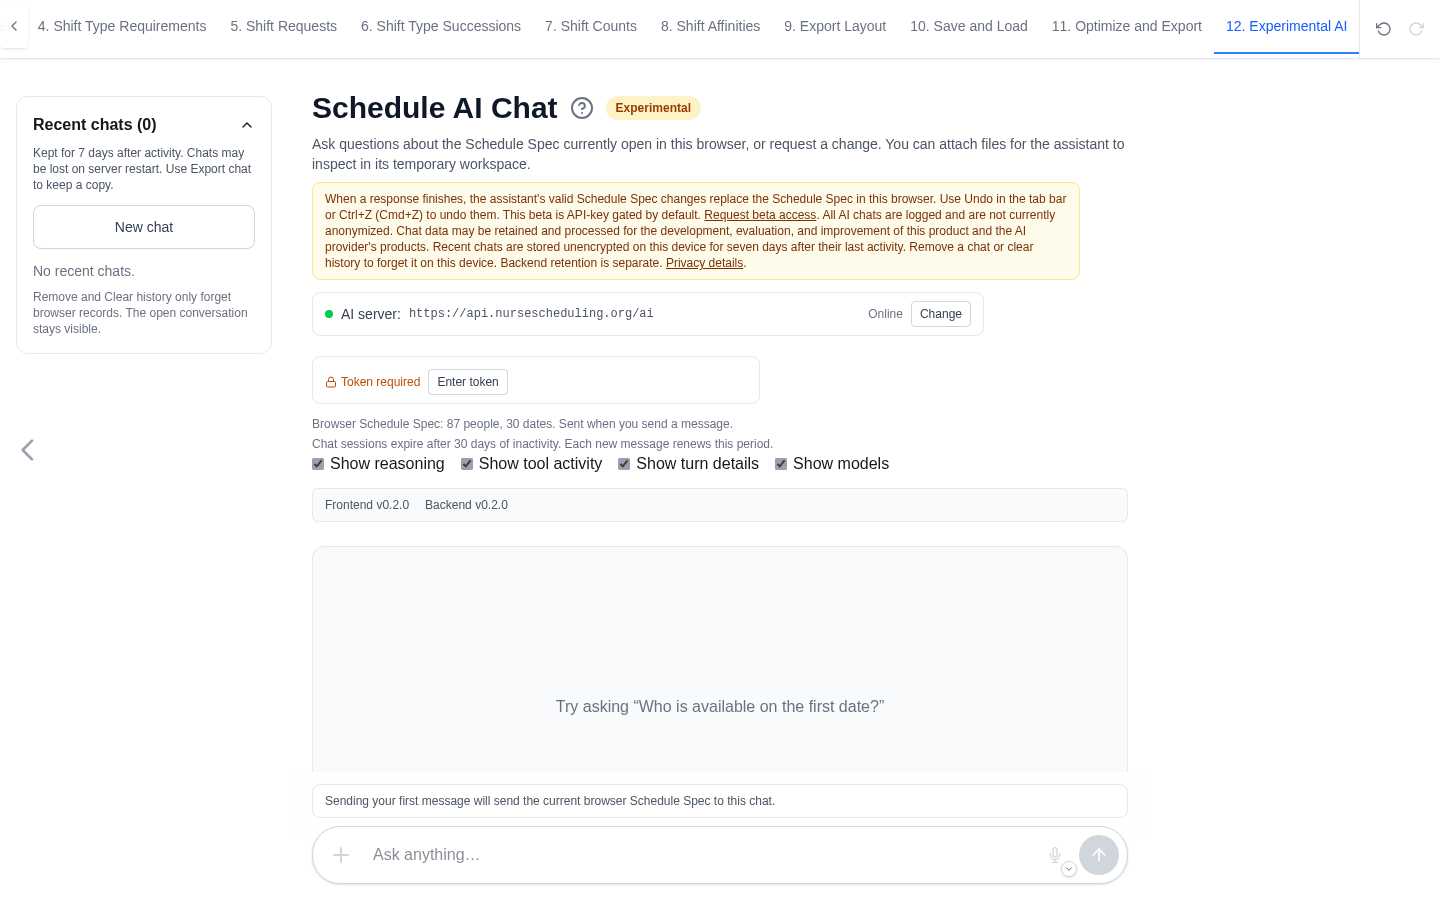
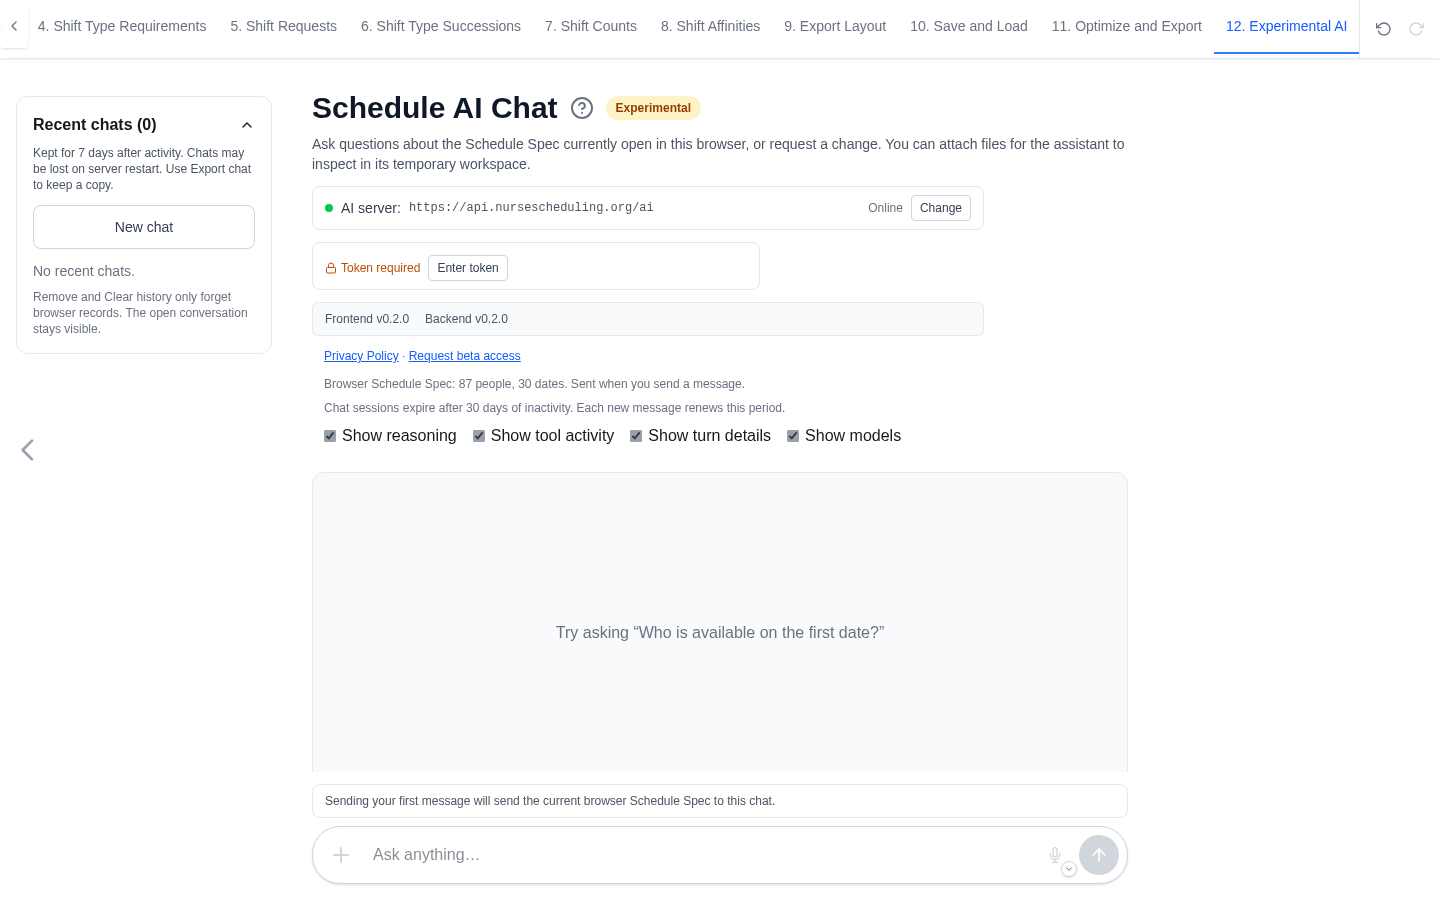
fix(web-frontend): simplify AI chat setup and privacy links
The long warning distracted from server setup and chat controls. Replace it with plain privacy and beta-access links, arrange server and token controls before versions and chat options, and keep versions visible when phone settings are collapsed.

by Codex (gpt-6.1-sol)

diff --git a/web-frontend/src/app/experimental-ai/page.tsx b/web-frontend/src/app/experimental-ai/page.tsx
@@ -968,28 +968,6 @@ export default function ExperimentalAiPage() {
         <p className="text-sm text-gray-600">
           Ask questions about the Schedule Spec currently open in this browser, or request a change. You can attach files for the assistant to inspect in its temporary workspace.
         </p>
-        <p className="mt-2 max-w-3xl rounded-lg border border-amber-200 bg-amber-50 px-3 py-2 text-xs text-amber-900">
-          When a response finishes, the assistant&apos;s valid Schedule Spec changes replace the Schedule Spec in this browser.
-          Use Undo in the tab bar or Ctrl+Z (Cmd+Z) to undo them. This beta is API-key gated by default.{' '}
-          <a
-            className="font-medium underline"
-            href={GITHUB_AI_BETA_ACCESS_URL}
-            target="_blank"
-            rel="noopener noreferrer"
-          >
-            Request beta access
-          </a>
-          . All AI chats are logged and are not currently anonymized. Chat data may be retained and processed for the development, evaluation, and improvement of this product and the AI provider&apos;s products. Recent chats are stored unencrypted on this device for seven days after their last activity. Remove a chat or clear history to forget it on this device. Backend retention is separate.{' '}
-          <a
-            className="font-medium underline"
-            href={GITHUB_PRIVACY_URL}
-            target="_blank"
-            rel="noopener noreferrer"
-          >
-            Privacy details
-          </a>
-          .
-        </p>
         {trimmedHistoryCount > 0 && (
           <p className="mt-2 max-w-3xl rounded-lg border border-amber-200 bg-amber-50 px-3 py-2 text-xs text-amber-900" role="status">
             This conversation is long, so the {trimmedHistoryCount === 1 ? 'oldest message is' : `${trimmedHistoryCount} oldest messages are`}
@@ -1107,7 +1085,7 @@ export default function ExperimentalAiPage() {
           )}
         </div>
         {(authRequired || authToken !== null) && (
-          <div className="mt-3 max-w-md rounded-lg border border-gray-200 bg-white px-3 py-2">
+          <div className="mt-1 max-w-md rounded-lg border border-gray-200 bg-white px-3 py-2">
             <BackendTokenField
               endpoint="AI assistant"
               token={authToken}
@@ -1124,15 +1102,61 @@ export default function ExperimentalAiPage() {
             )}
           </div>
         )}
-        <div className="mt-3">
-          <MobileDetails label="Chat details and settings" openWhen={hasVersionMismatch}>
+        <div role="group" aria-label="AI versions" className={`mt-3 max-w-2xl rounded-md border px-3 py-2 text-xs ${hasVersionMismatch ? 'border-amber-200 bg-amber-50 text-amber-900' : 'border-gray-200 bg-gray-50 text-gray-600'}`}>
+          <div className="flex flex-wrap gap-x-4 gap-y-1">
+            <span>
+              Frontend{' '}
+              <AppVersionText
+                version={CURRENT_APP_VERSION}
+                versionHref={GITHUB_TAGS_URL}
+                versionClassName="hover:text-gray-600"
+                commitClassName="hover:text-gray-600"
+              />
+            </span>
+            <span>
+              Backend{' '}
+              <AppVersionText
+                version={backendVersion ?? 'unknown'}
+                versionHref={GITHUB_TAGS_URL}
+                versionClassName="hover:text-gray-600"
+                commitClassName="hover:text-gray-600"
+              />
+            </span>
+          </div>
+          {hasVersionMismatch && (
+            <p className="mt-1 font-medium text-amber-700">
+              Frontend and backend versions do not match. If nothing breaks, you can continue.
+            </p>
+          )}
+        </div>
+        <p className="mt-3 px-3 text-xs text-gray-500">
+          <a
+            className="text-blue-600 underline hover:text-blue-800"
+            href={GITHUB_PRIVACY_URL}
+            target="_blank"
+            rel="noopener noreferrer"
+          >
+            Privacy Policy
+          </a>
+          {' · '}
+          <a
+            className="text-blue-600 underline hover:text-blue-800"
+            href={GITHUB_AI_BETA_ACCESS_URL}
+            target="_blank"
+            rel="noopener noreferrer"
+          >
+            Request beta access
+          </a>
+        </p>
+        <div className="mt-3 sm:px-3">
+          <MobileDetails label="Chat details and settings">
             <p className="mt-2 text-xs font-medium text-gray-500">
               Browser Schedule Spec: {peopleData.items.length} people, {dateData.items.length} dates. Sent when you send a message.
             </p>
-            <p className="mt-1 text-xs text-gray-500">
+            <p className="mt-2 text-xs text-gray-500">
               Chat sessions expire after {retentionLabel(sessionRetentionSeconds)} of inactivity. Each new message renews this period.
             </p>
-            <div className="flex flex-wrap gap-4">
+            <div className="mt-2 flex flex-wrap gap-4">
               <label className="flex min-h-11 items-center gap-1.5 sm:min-h-0">
                 <input
                   type="checkbox"
@@ -1174,33 +1198,6 @@ export default function ExperimentalAiPage() {
                 Send feedback
               </button>
             )}
-            <div role="group" aria-label="AI versions" className={`mt-3 rounded-md border px-3 py-2 text-xs ${hasVersionMismatch ? 'border-amber-200 bg-amber-50 text-amber-900' : 'border-gray-200 bg-gray-50 text-gray-600'}`}>
-              <div className="flex flex-wrap gap-x-4 gap-y-1">
-                <span>
-                  Frontend{' '}
-                  <AppVersionText
-                    version={CURRENT_APP_VERSION}
-                    versionHref={GITHUB_TAGS_URL}
-                    versionClassName="hover:text-gray-600"
-                    commitClassName="hover:text-gray-600"
-                  />
-                </span>
-                <span>
-                  Backend{' '}
-                  <AppVersionText
-                    version={backendVersion ?? 'unknown'}
-                    versionHref={GITHUB_TAGS_URL}
-                    versionClassName="hover:text-gray-600"
-                    commitClassName="hover:text-gray-600"
-                  />
-                </span>
-              </div>
-              {hasVersionMismatch && (
-                <p className="mt-1 font-medium text-amber-700">
-                  Frontend and backend versions do not match. If nothing breaks, you can continue.
-                </p>
-              )}
-            </div>
           </MobileDetails>
         </div>
       </div>

diff --git a/web-frontend/e2e/experimental-ai-basic.spec.ts b/web-frontend/e2e/experimental-ai-basic.spec.ts
@@ -969,6 +969,10 @@ test('authenticates AI session requests with an explicitly remembered token', as
   const tokenStatus = await page.getByText('Token saved on this device').boundingBox();
   const versionsBox = await versions.boundingBox();
   expect(versionsBox!.y).toBeGreaterThan(tokenStatus!.y + tokenStatus!.height);
+  const privacyBox = await page.getByRole('link', { name: 'Privacy Policy', exact: true }).boundingBox();
+  const optionsBox = await page.getByRole('checkbox', { name: 'Show reasoning' }).boundingBox();
+  expect(privacyBox!.y).toBeGreaterThan(versionsBox!.y + versionsBox!.height);
+  expect(optionsBox!.y).toBeGreaterThan(privacyBox!.y + privacyBox!.height);
 
   await expect(composer).toBeEnabled();
   await composer.fill('Use the protected service.');
@@ -1671,11 +1675,21 @@ test('keeps phone chat readable and the growing composer clear of the last reply
   await expect(input).toBeEnabled();
   const composer = page.getByRole('form', { name: 'Message composer' });
   expect((await composer.boundingBox())!.width).toBeGreaterThanOrEqual(328);
-  await expect(page.getByText('All AI chats are logged', { exact: false })).toBeVisible();
-  // The mocked backend version differs from the build, so the collapsed panel opens to show the warning.
+  const versions = page.getByRole('group', { name: 'AI versions' });
+  const privacy = page.getByRole('link', { name: 'Privacy Policy', exact: true });
+  const settings = page.getByRole('button', { name: 'Chat details and settings', exact: true });
+  await expect(privacy).toBeVisible();
+  await expect(page.getByRole('link', { name: 'Request beta access' })).toBeVisible();
+  await expect(page.getByText('When a response finishes', { exact: false })).toHaveCount(0);
   await expect(page.getByText('Frontend and backend versions do not match', { exact: false })).toBeVisible();
-  await page.getByRole('button', { name: 'Chat details and settings', exact: true }).click();
-  await expect(page.getByRole('group', { name: 'AI versions' })).not.toBeVisible();
+  await expect(settings).toHaveAttribute('aria-expanded', 'false');
+  expect((await versions.boundingBox())!.y).toBeLessThan((await privacy.boundingBox())!.y);
+  expect((await privacy.boundingBox())!.y).toBeLessThan((await settings.boundingBox())!.y);
+  await settings.click();
+  await expect(page.getByRole('checkbox', { name: 'Show reasoning' })).toBeVisible();
+  await settings.click();
+  await expect(page.getByRole('checkbox', { name: 'Show reasoning' })).not.toBeVisible();
+  await expect(versions).toBeVisible();
   await input.fill('Question');
   await page.getByRole('button', { name: 'Send', exact: true }).click();
   const reply = page.getByText('Final reply for phone layout.', { exact: true });
@@ -1704,6 +1718,11 @@ test.describe('phone chat keyboard', () => {
     await expect(input).toBeEnabled();
     // Phone keyboards provide dictation, so the page omits its own microphone.
     await expect(page.getByRole('button', { name: 'Start dictation' })).toBeHidden();
+    await expect(page.getByRole('link', { name: 'Privacy Policy', exact: true })).toBeVisible();
+    await expect(page.getByRole('group', { name: 'AI versions' })).toBeVisible();
+    await expect(page.getByText('Frontend and backend versions do not match', { exact: false })).toBeVisible();
+    await page.evaluate(() => window.scrollTo(0, 0));
+    await page.screenshot({ path: '../artifacts/ai-chat-setup-phone.png' });
     await input.fill('First line');
     await input.press('End');
     await input.press('Enter');

diff --git a/web-frontend/src/app/experimental-ai/page.test.tsx b/web-frontend/src/app/experimental-ai/page.test.tsx
@@ -554,11 +554,11 @@ describe('ExperimentalAiPage', () => {
       'href',
       'https://github.com/j3soon/nurse-scheduling#ai-beta-access',
     );
-    expect(screen.getByRole('link', { name: 'Privacy details' })).toHaveAttribute(
+    expect(screen.getByRole('link', { name: 'Privacy Policy' })).toHaveAttribute(
       'href',
       'https://github.com/j3soon/nurse-scheduling/blob/dev/PRIVACY.md',
     );
-    expect(screen.getByText(/All AI chats are logged and are not currently anonymized/)).toBeInTheDocument();
+    expect(screen.queryByText(/When a response finishes/)).not.toBeInTheDocument();
     await user.type(screen.getByRole('textbox', { name: 'Ask about the current Schedule Spec' }), 'Who works Monday?');
     const sendButton = screen.getByRole('button', { name: 'Send' });
     expect(sendButton).toHaveTextContent('');
@@ -1588,14 +1588,6 @@ describe('ExperimentalAiPage', () => {
       responseCompletedAt: expect.any(Number),
     }));
     expect(stored.messages[0].status).toBe(event === 'done' ? undefined : 'stopped');
-  });
-
-  it('warns that the chat is stored unencrypted in this browser', async () => {
-    render(<ExperimentalAiPage />);
-
-    expect(await screen.findByText(
-      /Recent chats are stored unencrypted on this device for seven days after their last activity\./,
-    )).toBeInTheDocument();
   });
 
   it('warns once the assistant stops receiving the oldest messages', async () => {

diff --git a/docs/content/user-guide/experimental-ai.md b/docs/content/user-guide/experimental-ai.md
@@ -227,7 +227,8 @@ The blue development-version banner appears only in non-release builds.
 
 1. Finish editing or load the intended Schedule Spec.
 2. Open **Experimental AI**.
-3. Confirm the displayed people and date counts.
+3. Confirm the displayed people and date counts. On phones, open **Chat details
+   and settings** to show them.
 4. If **Attach files** is available, optionally select files and confirm the
    displayed names. Remove an incorrect file with its **×** button.
 5. Enter a question and select **Send**. Press <kbd>Enter</kbd> to send or
